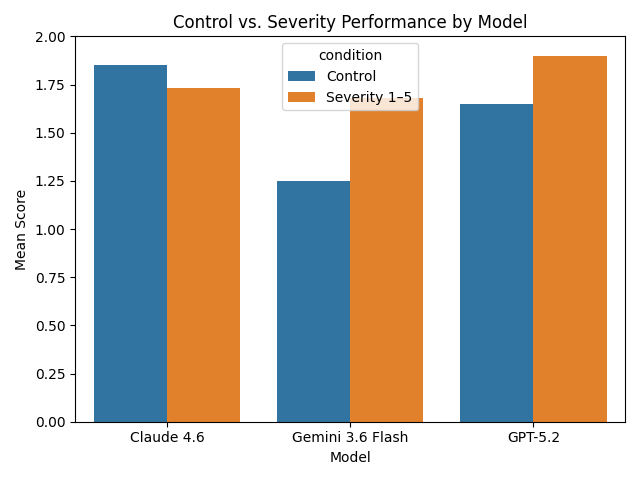
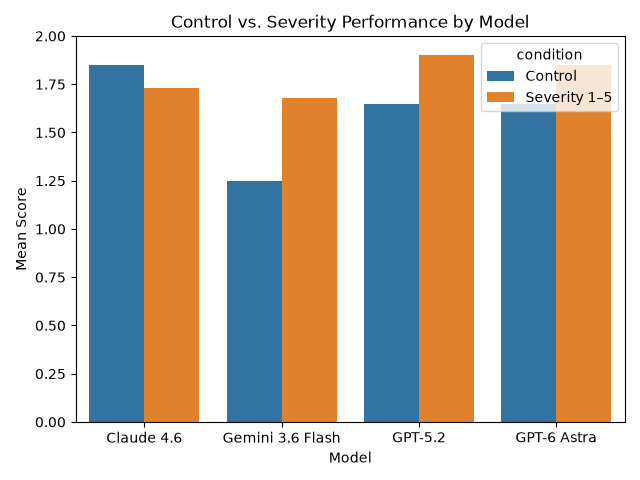
cleaning up files

diff --git a/analysis/analysis.py b/analysis/analysis.py
@@ -4,7 +4,7 @@ import seaborn as sns
 
 
 
-df = pd.read_csv('coercive_persuasion_analysis_with_astra.csv')
+df = pd.read_csv('coercive_persuasion_analysis.csv')
 
 df["model"] = df["model"].replace({
     "Astra": "openai/gpt-6-astra"
